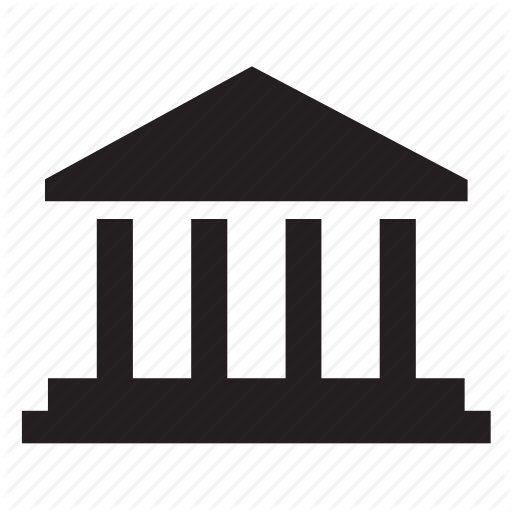
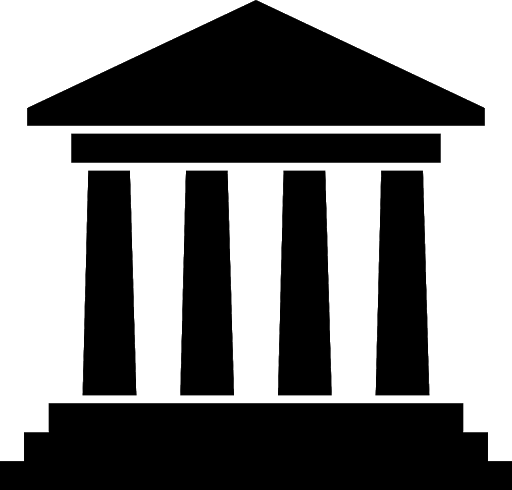
Implement CoreValue into home page

diff --git a/src/pages/Home/Home.js b/src/pages/Home/Home.js
@@ -1,10 +1,43 @@
 import React from "react";
 import "./home.scss";
+import BuildingIcon from "../../assets/images/BuildingIcon.png";
+import GroupIcon from "../../assets/images/GroupIcon.png";
+import HandShakeIcon from "../../assets/images/HandShakeIcon.png";
+import CoreValue from "../../components/CoreValue/CoreValue";
 
 const Home = () => {
   return (
     <main>
       <h2>What is Student Honors Council?</h2>
+      <section>
+        <CoreValue
+          imageSource={BuildingIcon}
+          imageDescription={"Agora"}
+          title={"Student Governance"}
+          description={
+            "Student Honors Council serves as the student-governing body of the Ball State University Honors College. We work very closely with Honors College administration to collaborate on events and voice student feedback."
+          }
+          link={"/honorsCollege"}
+        />
+        <CoreValue
+          imageSource={GroupIcon}
+          imageDescription={"Group"}
+          title={"Academic and Social Events"}
+          description={
+            "Student Honors Council hosts various academic and social events, such as the Curriculum Crash Course and Haunted Honors House. We have partnered with other on-campus organizations, such as the Student Government Association and Residents of DeHority to host programs like these."
+          }
+          link={"/events"}
+        />
+        <CoreValue
+          imageSource={HandShakeIcon}
+          imageDescription={"Community"}
+          title={"Community Engagement"}
+          description={
+            "Student Honors Council not only works with the Ball State community, but we also work with the Muncie community, too. By participating in service opportunities such as volunteering at Camp Adventure or the Ross Community Center, our members work hard to give back to the community as a whole."
+          }
+          link={"/service"}
+        />
+      </section>
       <h2>Meet your 2020-2021 Executive Board</h2>
       <h2>Our Events</h2>
       <h2>Interested in joining? Have a question? Let us know.</h2>
